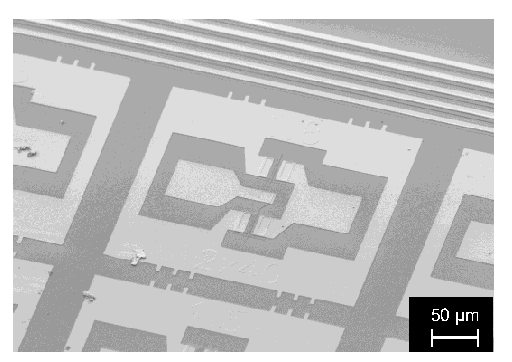
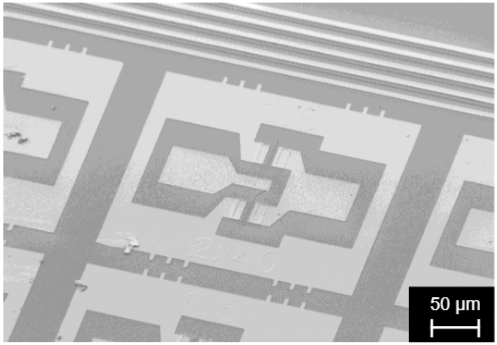
Add InP HEMT structure figure

diff --git a/research.html b/research.html
@@ -28,7 +28,7 @@
       <div class="research-feature"><div class="research-feature-copy"><p class="eyebrow">01 / GaN HEMT</p><h2 id="gan-title">GaN系HEMTによる高周波・高耐圧デバイス</h2><p>AlGaN/GaNヘテロ構造では、材料の分極に由来する電荷により、界面に高密度の二次元電子ガス（2DEG）が形成されます。この高いキャリア密度と電子輸送特性を活かし、高周波増幅素子や高耐圧スイッチング素子へ応用できます。</p><p>本研究室では、HEMTの動作を左右する閾値電圧の予測、N極性GaNのプロセス技術、電流コラプスの微小電流波形解析に取り組み、性能と信頼性の両立を目指します。</p></div><div class="research-feature-visual"><figure class="hemt-figure" aria-labelledby="hemt-figure-caption"><img class="hemt-schematic-image" src="assets/images/research/algan-gan-hemt-schematic.png" width="382" height="180" alt="ソース電極、ゲート電極、ドレイン電極、AlGaNバリア層、GaNチャネル層、基板からなるAlGaN/GaN HEMTの模式図。界面には二次元電子が形成される。" loading="lazy"><figcaption id="hemt-figure-caption">AlGaN/GaN HEMTの概念模式図</figcaption></figure><figure class="device-photo"><img src="assets/images/research/gan-hemt-device.png" width="420" height="323" alt="試作したGaN HEMTの写真" loading="lazy"><figcaption>試作したGaN HEMT</figcaption></figure></div></div>
     </div></section>
 
-    <section class="section section-alt" aria-labelledby="inp-title"><div class="container"><div class="research-feature research-feature-reverse"><div class="research-feature-copy"><p class="eyebrow">02 / InP HEMT</p><h2 id="inp-title">極限高周波・低雑音デバイス</h2><p>InP系HEMTは、室温で10,000 cm²/Vsを超える電子移動度を実現できる材料系です。極めて高速な電子輸送を活かすことで、深ミリ波・テラヘルツ帯で動作する増幅素子や、低雑音の高周波デバイスへ展開できます。</p><p>また、極低温でも移動度が低下しにくい特性は、量子コンピューティング用ハードウェアなど、低温環境で動作する電子回路への応用可能性を持ちます。</p><div class="research-specs"><span>Electron mobility</span><strong>&gt; 10,000 cm²/Vs</strong><span>Applications</span><strong>mmWave · THz · Cryogenic</strong></div></div><figure class="large-device-photo"><img src="assets/images/research/inp-hemt-device.png" width="512" height="362" alt="試作した高周波測定用InP HEMTの顕微鏡写真" loading="lazy"><figcaption>試作した高周波測定用InP HEMT</figcaption></figure></div></div></section>
+    <section class="section section-alt" aria-labelledby="inp-title"><div class="container"><div class="research-feature research-feature-reverse"><div class="research-feature-copy"><p class="eyebrow">02 / InP HEMT</p><h2 id="inp-title">極限高周波・低雑音デバイス</h2><p>InP系HEMTは、室温で10,000 cm²/Vsを超える電子移動度を実現できる材料系です。極めて高速な電子輸送を活かすことで、深ミリ波・テラヘルツ帯で動作する増幅素子や、低雑音の高周波デバイスへ展開できます。</p><p>また、極低温でも移動度が低下しにくい特性は、量子コンピューティング用ハードウェアなど、低温環境で動作する電子回路への応用可能性を持ちます。</p><div class="research-specs"><span>Electron mobility</span><strong>&gt; 10,000 cm²/Vs</strong><span>Applications</span><strong>mmWave · THz · Cryogenic</strong></div></div><div class="inp-visuals"><figure><img src="assets/images/research/inp-hemt-device.png" width="497" height="345" alt="試作した高周波測定用InP HEMTの顕微鏡写真" loading="lazy"><figcaption>試作した高周波測定用InP HEMT</figcaption></figure><figure><img src="assets/images/research/inp-hemt-cross-section.png" width="547" height="387" alt="ソース、ゲート、ドレイン、InGaAsチャネル、InAlAsバリア層、InP基板からなるInP HEMTの断面構造図" loading="lazy"><figcaption>InP HEMTの断面構造</figcaption></figure></div></div></div></section>
 
     <section class="section" aria-labelledby="ga2o3-title"><div class="container"><div class="research-feature"><div class="research-feature-copy"><p class="eyebrow">03 / β-Ga₂O₃</p><h2 id="ga2o3-title">酸化ガリウム結晶から、マイクロ波デバイスへ</h2><p>酸化ガリウム（β-Ga₂O₃）は、超ワイドギャップを持つ半導体です。本研究室では、結晶の抵抗率を適切に評価する手法を検討し、材料の電気特性をデバイス性能へ結びつけます。</p><p>貴金属るつぼを使わずに成長した結晶を活用する新たな材料技術も視野に入れ、低コストなマイクロ波帯トランジスタの実現を目指します。</p></div><figure class="large-device-photo"><img src="assets/images/research/ga2o3-crystal.png" width="450" height="275" alt="酸化ガリウム結晶の写真" loading="lazy"><figcaption>酸化ガリウム結晶</figcaption></figure></div></div></section>
 

diff --git a/assets/css/style.css b/assets/css/style.css
@@ -92,9 +92,9 @@
 
 /* Research page: source figures and detailed feature sections */
 .materials-overview{display:grid;grid-template-columns:minmax(0,.8fr) minmax(0,1.2fr);gap:clamp(1.5rem,5vw,4rem);align-items:center;margin-top:2.75rem}
-.materials-overview figure{margin:0;border:1px solid var(--line);background:#f5f5f2;padding:.75rem}
+.materials-overview figure{margin:0;border:1px solid var(--line);background:#f5f5f2;padding:0;overflow:hidden}
 .materials-overview img{display:block;width:100%;height:auto;aspect-ratio:846/462;object-fit:contain;object-position:center}
-.materials-overview figcaption,.device-photo figcaption,.large-device-photo figcaption{margin-top:.7rem;color:var(--muted);font-size:.8rem;line-height:1.5}
+.materials-overview figcaption,.device-photo figcaption,.large-device-photo figcaption{margin:0;padding:.7rem .85rem;background:var(--bg);color:var(--muted);font-size:.8rem;line-height:1.5}
 .materials-copy h3{font-size:clamp(1.25rem,2.5vw,1.7rem);line-height:1.35;margin:0 0 1rem}
 .materials-copy ul{padding:0;margin:0;list-style:none;border-top:1px solid var(--line)}
 .materials-copy li{padding:.9rem 0;border-bottom:1px solid var(--line);color:var(--muted);font-size:.92rem}
@@ -110,6 +110,7 @@
 .research-feature-visual>figure{min-height:330px;display:flex;flex-direction:column}
 .hemt-schematic-image{display:block;width:100%;height:100%;min-height:0;flex:1;object-fit:contain;background:#f5f5f2}
 .device-photo img,.large-device-photo img{display:block;width:100%;height:auto;object-fit:cover;filter:contrast(.95) saturate(.85)}
+.research-feature .hemt-figure,.device-photo,.large-device-photo{padding:0;overflow:hidden}
 .device-photo img{aspect-ratio:1 / .78}
 .research-feature-visual .device-photo{display:flex;flex-direction:column}
 .research-feature-visual .device-photo img{height:100%;min-height:0;flex:1;aspect-ratio:auto;object-fit:contain;background:#f5f5f2}
@@ -117,13 +118,17 @@
 .research-specs{display:grid;grid-template-columns:auto 1fr;gap:.3rem 1rem;margin-top:1.6rem;padding-top:1.2rem;border-top:1px solid var(--line)}
 .research-specs span{color:var(--muted);font-size:.78rem}
 .research-specs strong{color:var(--accent);font-size:.9rem;letter-spacing:.03em}
+.inp-visuals{display:grid;grid-template-columns:repeat(2,minmax(0,1fr));gap:1rem;align-items:stretch}
+.inp-visuals figure{display:flex;flex-direction:column;min-height:0;margin:0;border:1px solid var(--line);border-left:3px solid var(--accent);overflow:hidden;background:#fff}
+.inp-visuals img{display:block;width:100%;aspect-ratio:4/3;object-fit:contain;background:#fff}
+.inp-visuals figcaption{margin:0;padding:.7rem .85rem;background:var(--bg);color:var(--muted);font-size:.8rem;line-height:1.5}
 .future-grid{display:grid;grid-template-columns:repeat(3,1fr);gap:1px;border:1px solid var(--line);background:var(--line)}
 .future-grid article{padding:1.5rem;background:var(--bg)}
 .future-grid span{color:var(--accent);font-size:.75rem;font-weight:700;letter-spacing:.1em}
 .future-grid h3{font-size:1.2rem;line-height:1.35;margin:.8rem 0}
 .future-grid p{margin:0;color:var(--muted);font-size:.9rem}
-@media (max-width:800px){.materials-overview,.research-feature,.research-feature-reverse{grid-template-columns:1fr}.research-feature-reverse .research-feature-copy,.research-feature-reverse .large-device-photo{order:initial}.research-feature-visual{max-width:620px}.future-grid{grid-template-columns:1fr}}
-@media (max-width:480px){.research-feature-visual{grid-template-columns:1fr}.research-feature-visual>figure{min-height:0}.materials-overview figure{padding:.5rem}}
+@media (max-width:800px){.materials-overview,.research-feature,.research-feature-reverse{grid-template-columns:1fr}.research-feature-reverse .research-feature-copy,.research-feature-reverse .large-device-photo{order:initial}.research-feature-visual{max-width:620px}.inp-visuals{max-width:620px}.future-grid{grid-template-columns:1fr}}
+@media (max-width:480px){.research-feature-visual,.inp-visuals{grid-template-columns:1fr}.research-feature-visual>figure{min-height:0}}
 
 /* Collaboration and outlook */
 .collaboration-title{background:radial-gradient(circle at 84% 16%,#162d41 0,transparent 33%)}
